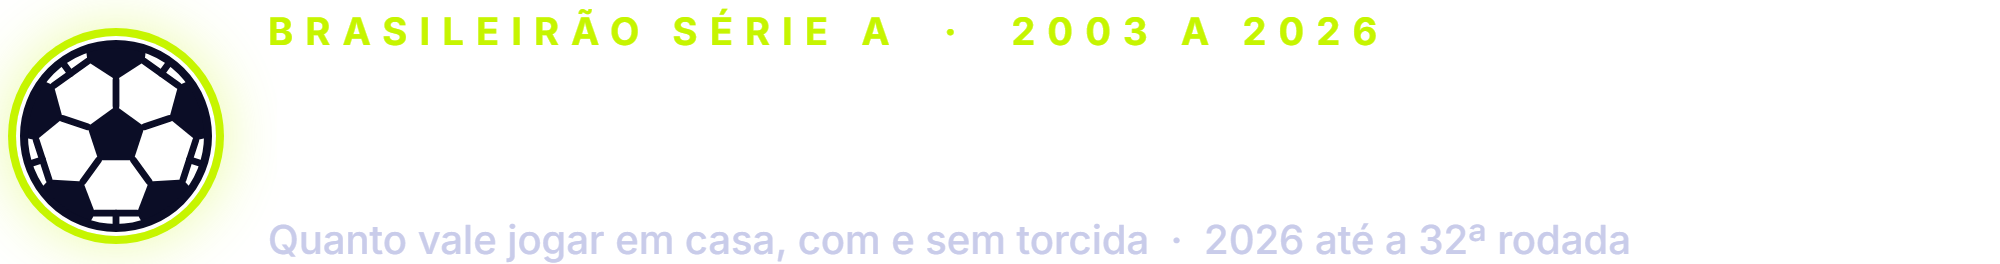
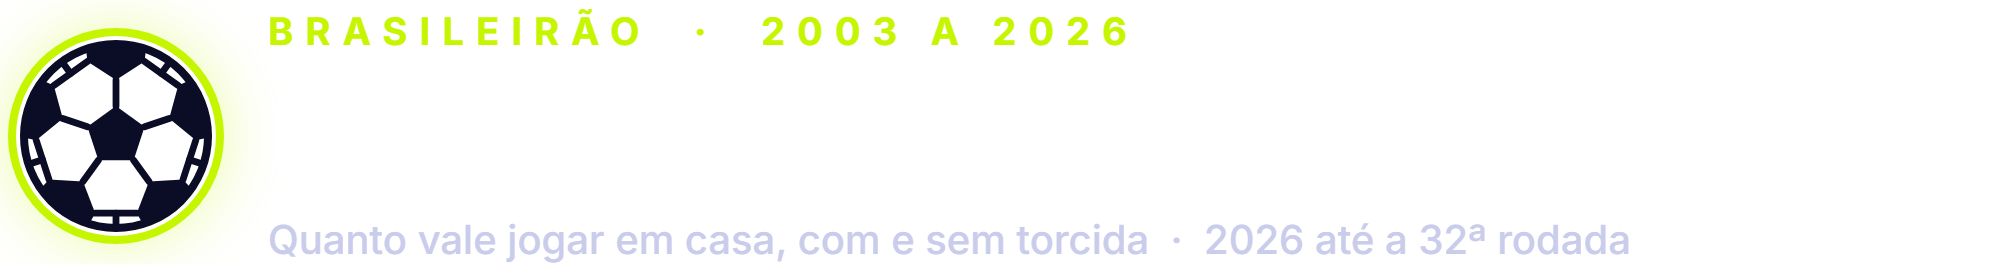
Painel: cabeçalho "Brasileirão" sem "Série A"
A tabela por time também traz os 4 tradicionais na Série B, então o
cabeçalho fica só "Brasileirão · 2003 a 2026". Print novo.

Changed region(s): [[0.31, 0.0606, 0.713, 0.1818]]

diff --git a/dashboards/powerbi/arte/gerar_arte.py b/dashboards/powerbi/arte/gerar_arte.py
@@ -127,7 +127,7 @@ def titulo() -> None:
     corpo = f"""<div style="display:flex;align-items:center;gap:26px;padding:6px 8px">
   <div style="border-radius:50%;box-shadow:0 0 0 4px {LIMAO},0 0 34px rgba(198,245,0,.45);line-height:0">{bola(BRANCO, NAVY, 100)}</div>
   <div>
-    <div style="font:700 19px/1 Inter;letter-spacing:.32em;color:{LIMAO}">BRASILEIRÃO SÉRIE A &nbsp;·&nbsp; {base["primeira_temporada"]} A {base["ultima_temporada"]}</div>
+    <div style="font:700 19px/1 Inter;letter-spacing:.32em;color:{LIMAO}">BRASILEIRÃO &nbsp;·&nbsp; {base["primeira_temporada"]} A {base["ultima_temporada"]}</div>
     <div class="larga" style="font-size:64px;line-height:.95;color:{BRANCO};margin-top:12px">MANDO DE CAMPO</div>
     <div style="font:500 20px/1 Inter;color:#C9CCEA;margin-top:12px">Quanto vale jogar em casa, com e sem torcida{parcial}</div>
   </div></div>"""
